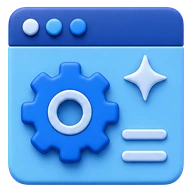
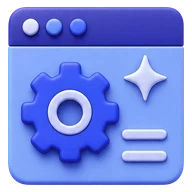
分頁按鈕改為靛藍偏薰衣草紫色調
- 圖示色相由亮藍轉為靛藍、飽和度略降，貼近背景的深靛藍
- 按鈕外框、玻璃底色、hover 與選中光暈改為靛藍色系，選中維持冰白反白

diff --git a/index.html b/index.html
@@ -159,15 +159,15 @@
   /* ---------- 作品區 ---------- */
   section { padding-block: 80px; scroll-margin-top: 40px; }
   /* 分頁切換 */
-  /* 分頁按鈕：H 站產生的藍色去背圖示＋文字。未選中是深藍玻璃，選中是冰白底＋藍色光暈（藍圖示在白底上最清楚） */
+  /* 分頁按鈕：H 站產生的去背圖示＋文字，色調為貼近背景的靛藍色。未選中是靛藍玻璃，選中是冰白底＋靛藍光暈 */
   .tabs { display: inline-flex; gap: 12px; margin-bottom: 24px; }
   .tabs button {
     display: inline-flex; align-items: center; gap: 8px; white-space: nowrap;
     font: inherit; font-size: 1.02rem; font-weight: 600; letter-spacing: .08em; cursor: pointer;
     padding: 7px 18px 7px 12px; border-radius: 99px;
-    border: 1px solid rgba(120,170,255,.22);
-    background: linear-gradient(180deg, rgba(37,99,235,.22), rgba(30,64,175,.08));
-    color: #dbe8ff;
+    border: 1px solid rgba(150,155,240,.24);
+    background: linear-gradient(180deg, rgba(99,102,241,.22), rgba(67,56,202,.08));
+    color: #e0e1ff;
     transition: background .3s, color .3s, box-shadow .3s, border-color .3s, transform .25s;
   }
   .tabs img {
@@ -175,15 +175,15 @@
     transition: transform .35s cubic-bezier(.2,.8,.2,1);
   }
   .tabs button:hover {
-    background: linear-gradient(180deg, rgba(59,130,246,.36), rgba(37,99,235,.18));
-    border-color: rgba(147,197,253,.65); color: #fff; transform: translateY(-1px);
+    background: linear-gradient(180deg, rgba(129,140,248,.34), rgba(99,102,241,.16));
+    border-color: rgba(165,180,252,.62); color: #fff; transform: translateY(-1px);
   }
   .tabs button:hover img { transform: scale(1.08) rotate(-4deg); }
-  .tabs button:focus-visible { outline: 3px solid #60a5fa; outline-offset: 2px; }
+  .tabs button:focus-visible { outline: 3px solid #818cf8; outline-offset: 2px; }
   .tabs button[aria-selected="true"] {
-    background: linear-gradient(180deg, #ffffff, #e2edff); color: #0d1f4d;
+    background: linear-gradient(180deg, #ffffff, #e8e8ff); color: #1e1b4b;
     border-color: rgba(255,255,255,.95);
-    box-shadow: 0 0 0 3px rgba(96,165,250,.38), 0 12px 28px -10px rgba(59,130,246,.95);
+    box-shadow: 0 0 0 3px rgba(129,140,248,.36), 0 12px 28px -10px rgba(99,102,241,.92);
   }
 
   .grid { display: grid; grid-template-columns: repeat(2, 1fr); gap: 28px; }
@@ -381,10 +381,10 @@
         <h1>打開瀏覽器<br>就能<em>玩</em>的作品</h1>
         <p>我喜歡把點子做成可以直接上手的網頁：從教你學 Git 的互動練功房，到一整群可愛貓咪登場的休閒遊戲，還有能旋轉視角的 3D 麻將塔。</p>
         <div class="tabs" role="tablist" aria-label="作品分頁">
-          <button role="tab" data-tab="game" aria-selected="true"><img src="images/tabs/game.webp?v=3" alt="" width="40" height="40"><span>遊戲</span></button>
-          <button role="tab" data-tab="app" aria-selected="false"><img src="images/tabs/app.webp?v=3" alt="" width="40" height="40"><span>應用</span></button>
-          <button role="tab" data-tab="video" aria-selected="false"><img src="images/tabs/video.webp?v=3" alt="" width="40" height="40"><span>影音</span></button>
-          <button role="tab" data-tab="learn" aria-selected="false"><img src="images/tabs/learn.webp?v=3" alt="" width="40" height="40"><span>學習</span></button>
+          <button role="tab" data-tab="game" aria-selected="true"><img src="images/tabs/game.webp?v=6" alt="" width="40" height="40"><span>遊戲</span></button>
+          <button role="tab" data-tab="app" aria-selected="false"><img src="images/tabs/app.webp?v=6" alt="" width="40" height="40"><span>應用</span></button>
+          <button role="tab" data-tab="video" aria-selected="false"><img src="images/tabs/video.webp?v=6" alt="" width="40" height="40"><span>影音</span></button>
+          <button role="tab" data-tab="learn" aria-selected="false"><img src="images/tabs/learn.webp?v=6" alt="" width="40" height="40"><span>學習</span></button>
         </div>
         <div class="stats">
           <div><b id="count">4</b><span>線上作品</span></div>
